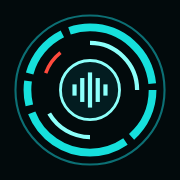
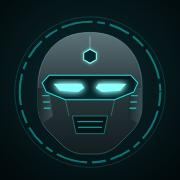
Nouveau cercle central (couronne de secteurs, cœur lumineux) et nouvelle icône casque
Claude-Session: https://claude.ai/code/session_01JMaw5Nr5KgAWoKH9Dxn7kh

diff --git a/css/jarvis.css b/css/jarvis.css
@@ -104,22 +104,25 @@ body[data-state="listening"] .marque-etat, body[data-state="speaking"] .marque-e
 .trait-fin { stroke: var(--cyan-sombre); stroke-width: 1; }
 #graduations line { stroke: var(--cyan-sombre); stroke-width: 1; }
 #graduations line.majeure { stroke: var(--cyan); stroke-width: 2; }
-.segments { stroke: var(--cyan); stroke-width: 9; stroke-dasharray: 46 6 110 6 20 6 70 6; }
-.segments-halo { stroke: rgb(22 224 220 / .22); stroke-width: 20; stroke-dasharray: 46 6 110 6 20 6 70 6; }
+.secteur { fill: rgb(22 224 220 / .07); stroke: var(--cyan); stroke-width: 1.2; transition: fill 180ms, stroke 180ms; }
+.secteur.allume { fill: rgb(22 224 220 / .38); stroke: var(--cyan-vif); filter: drop-shadow(0 0 6px var(--cyan)); }
+.secteur-txt { fill: var(--cyan-vif); font: 500 9.5px var(--titre); letter-spacing: .12em; pointer-events: none; }
 .arc { stroke: var(--cyan-vif); stroke-width: 4; }
 .arc-halo { stroke: rgb(22 224 220 / .3); stroke-width: 12; }
 .arc-fin { stroke: var(--rouge); stroke-width: 3; }
 .pointilles { stroke: var(--cyan); stroke-width: 5; stroke-dasharray: 2 7; opacity: .8; }
-.arc-moyen { stroke: var(--cyan); stroke-width: 2; }
+.cellule { fill: rgb(22 224 220 / .22) !important; stroke: var(--cyan); stroke-width: 1; }
+.cellule-vive { fill: rgb(140 255 250 / .65) !important; filter: drop-shadow(0 0 5px var(--cyan)); }
 .ailes path { stroke: var(--cyan); stroke-width: 3; stroke-dasharray: 3 5; opacity: .7; }
-.disque { fill: #031c20 !important; stroke: var(--cyan-vif); stroke-width: 2.5; }
-.disque-halo { stroke: rgb(22 224 220 / .28); stroke-width: 14; }
-.disque-interne { stroke: var(--cyan-sombre); stroke-width: 1; stroke-dasharray: 1 5; }
+.disque { fill: url(#gradCoeur) !important; stroke: var(--cyan-vif); stroke-width: 2.5; }
+.disque-halo { stroke: rgb(22 224 220 / .3); stroke-width: 10; }
+.hexa { fill: none; stroke: var(--cyan-vif); stroke-width: 2; filter: drop-shadow(0 0 6px var(--cyan)); }
+.hexa-interne { fill: none; stroke: var(--cyan-sombre); stroke-width: 1; stroke-dasharray: 2 4; }
 .onde rect { fill: var(--cyan-vif); transform-box: fill-box; transform-origin: center; transform: scaleY(.15); transition: transform 120ms linear; }
 
 .anneau { transform-origin: 200px 200px; transform-box: view-box; }
 .anneau-graduations { animation: tourne 120s linear infinite; }
-.anneau-segments { animation: tourne 38s linear infinite reverse; }
+.anneau-cellules { animation: tourne 38s linear infinite reverse; }
 .anneau-arcs { animation: tourne 18s linear infinite; }
 .anneau-pointilles { animation: tourne 60s linear infinite reverse; }
 @keyframes tourne { to { transform: rotate(360deg); } }
@@ -130,9 +133,11 @@ body[data-state="listening"] .marque-etat, body[data-state="speaking"] .marque-e
 /* États */
 body[data-state="listening"] .anneau-arcs { animation-duration: 4s; }
 body[data-state="listening"] .disque { stroke: #fff; stroke-width: 3.5; }
+body[data-state="listening"] .hexa, body[data-state="speaking"] .hexa { stroke: #fff; }
+body[data-state="listening"] .cellule, body[data-state="speaking"] .cellule { fill: rgb(140 255 250 / .5) !important; }
 body[data-state="listening"] .disque-halo { stroke: rgb(140 255 250 / .5); animation: pulse 1.2s ease-in-out infinite; }
 body[data-state="listening"] .onde rect { fill: #fff; }
-body[data-state="thinking"] .anneau-segments { animation-duration: 5s; }
+body[data-state="thinking"] .anneau-cellules { animation-duration: 5s; }
 body[data-state="thinking"] .anneau-pointilles { animation-duration: 6s; }
 body[data-state="thinking"] .disque { stroke-dasharray: 8 8; }
 body[data-state="speaking"] .disque-halo { stroke: rgb(22 224 220 / .55); stroke-width: 22; animation: pulse .9s ease-in-out infinite; }

diff --git a/js/app.js b/js/app.js
@@ -65,6 +65,51 @@
       g.appendChild(l);
     }
   })();
+  /* Couronne de secteurs étiquetés, cellules lumineuses et hexagone du cœur */
+  const pt = (r, a) => [200 + Math.cos(a) * r, 200 + Math.sin(a) * r];
+  const secteurs = [];
+  (function couronne() {
+    const g = $("#couronne"), n = 12, r1 = 155, r2 = 181, ecart = 0.035;
+    const noms = ["AGENDA", "MAILS", "POSTS", "ACTU", "BRIEFING", "VOIX", "MÉMOIRE", "RÉSEAU", "WEB", "SYSTÈME", "CERVEAU", "VEILLE"];
+    const defs = document.querySelector(".noyau svg defs");
+    for (let i = 0; i < n; i++) {
+      const a1 = -Math.PI / 2 + (i / n) * Math.PI * 2 + ecart, a2 = -Math.PI / 2 + ((i + 1) / n) * Math.PI * 2 - ecart;
+      const [x1, y1] = pt(r2, a1), [x2, y2] = pt(r2, a2), [x3, y3] = pt(r1, a2), [x4, y4] = pt(r1, a1);
+      const seg = document.createElementNS(NS, "path");
+      seg.setAttribute("d", `M${x1} ${y1} A${r2} ${r2} 0 0 1 ${x2} ${y2} L${x3} ${y3} A${r1} ${r1} 0 0 0 ${x4} ${y4} Z`);
+      seg.setAttribute("class", "secteur"); g.appendChild(seg); secteurs.push(seg);
+      // texte toujours lisible : sens horaire en haut, antihoraire en bas
+      const milieu = (a1 + a2) / 2, bas = Math.sin(milieu) > 0.05;
+      const rt = bas ? 171 : 164, id = "arcTxt" + i;
+      const [sx, sy] = pt(rt, bas ? a2 : a1), [ex, ey] = pt(rt, bas ? a1 : a2);
+      const chemin = document.createElementNS(NS, "path"); chemin.setAttribute("id", id);
+      chemin.setAttribute("d", `M${sx} ${sy} A${rt} ${rt} 0 0 ${bas ? 0 : 1} ${ex} ${ey}`); defs.appendChild(chemin);
+      const t = document.createElementNS(NS, "text"); t.setAttribute("class", "secteur-txt");
+      const tp = document.createElementNS(NS, "textPath"); tp.setAttribute("href", "#" + id); tp.setAttribute("startOffset", "50%"); tp.setAttribute("text-anchor", "middle");
+      tp.textContent = noms[i]; t.appendChild(tp); g.appendChild(t);
+    }
+    // un secteur s'allume tour à tour, comme un balayage de contrôle
+    let k = 0;
+    const vitesse = () => ({ listening: 140, thinking: 90, speaking: 220 }[document.body.dataset.state] || 650);
+    (function balayer() {
+      if (!document.hidden && !matchMedia("(prefers-reduced-motion: reduce)").matches) {
+        secteurs.forEach((s, i) => s.classList.toggle("allume", i === k % n || (document.body.dataset.state === "thinking" && i === (k + 6) % n)));
+        k++;
+      }
+      setTimeout(balayer, vitesse());
+    })();
+    const c = $("#cellules");
+    for (let i = 0; i < 16; i++) {
+      const a1 = (i / 16) * Math.PI * 2 + 0.06, a2 = ((i + 1) / 16) * Math.PI * 2 - 0.06;
+      const [x1, y1] = pt(122, a1), [x2, y2] = pt(122, a2), [x3, y3] = pt(103, a2), [x4, y4] = pt(103, a1);
+      const cel = document.createElementNS(NS, "path");
+      cel.setAttribute("d", `M${x1} ${y1} A122 122 0 0 1 ${x2} ${y2} L${x3} ${y3} A103 103 0 0 0 ${x4} ${y4} Z`);
+      cel.setAttribute("class", "cellule" + (i % 4 === 0 ? " cellule-vive" : "")); c.appendChild(cel);
+    }
+    const hexa = (r, rot) => Array.from({ length: 6 }, (_, i) => pt(r, rot + (i * Math.PI) / 3).map((v) => v.toFixed(1)).join(",")).join(" ");
+    document.querySelector(".hexa").setAttribute("points", hexa(80, 0));
+    document.querySelector(".hexa-interne").setAttribute("points", hexa(70, 0));
+  })();
   const barres = [];
   (function onde() {
     const g = $("#onde"), n = 15, w = 5, gap = 4, total = n * w + (n - 1) * gap;

diff --git a/index.html b/index.html
@@ -15,7 +15,7 @@
 <meta name="apple-mobile-web-app-capable" content="yes">
 <meta name="apple-mobile-web-app-status-bar-style" content="black-translucent">
 <link rel="preload" href="fonts/unbounded-latin-500-normal.woff2" as="font" type="font/woff2" crossorigin>
-<link rel="stylesheet" href="css/jarvis.css?v=27">
+<link rel="stylesheet" href="css/jarvis.css?v=28">
 </head>
 <body data-state="idle">
 
@@ -51,14 +51,18 @@
   <section class="coeur" aria-label="Parler à Jarvis">
     <button class="noyau" id="noyau" aria-label="Appuyer pour parler">
       <svg viewBox="0 0 400 400" aria-hidden="true">
+        <defs>
+          <radialGradient id="gradCoeur" cx="50%" cy="50%" r="50%">
+            <stop offset="0" stop-color="#8cfffa" stop-opacity=".55"/>
+            <stop offset=".5" stop-color="#16e0dc" stop-opacity=".22"/>
+            <stop offset="1" stop-color="#031c20" stop-opacity="1"/>
+          </radialGradient>
+        </defs>
         <g class="anneau anneau-graduations">
           <circle fill="none" cx="200" cy="200" r="194" class="trait-fin"/>
           <g id="graduations"></g>
         </g>
-        <g class="anneau anneau-segments">
-          <circle fill="none" cx="200" cy="200" r="166" class="segments-halo"/>
-          <circle fill="none" cx="200" cy="200" r="166" class="segments"/>
-        </g>
+        <g class="couronne" id="couronne"></g>
         <g class="anneau anneau-arcs">
           <path fill="none" d="M200 52 A148 148 0 0 1 348 200" class="arc-halo"/>
           <path fill="none" d="M200 52 A148 148 0 0 1 348 200" class="arc"/>
@@ -67,15 +71,16 @@
           <path fill="none" d="M62 146 A148 148 0 0 1 112 81" class="arc arc-fin"/>
         </g>
         <g class="anneau anneau-pointilles">
-          <circle fill="none" cx="200" cy="200" r="128" class="pointilles"/>
-          <path fill="none" d="M200 84 A116 116 0 0 1 316 200 M200 316 A116 116 0 0 1 84 200" class="arc-moyen"/>
+          <circle fill="none" cx="200" cy="200" r="132" class="pointilles"/>
         </g>
+        <g class="anneau anneau-cellules" id="cellules"></g>
         <g class="ailes">
           <path fill="none" d="M22 150 A186 186 0 0 0 22 250" /><path fill="none" d="M378 150 A186 186 0 0 1 378 250" />
         </g>
-        <circle fill="none" cx="200" cy="200" r="100" class="disque-halo"/>
-        <circle fill="none" cx="200" cy="200" r="100" class="disque"/>
-        <circle fill="none" cx="200" cy="200" r="88" class="disque-interne"/>
+        <circle cx="200" cy="200" r="96" class="disque-halo" fill="none"/>
+        <circle cx="200" cy="200" r="96" class="disque"/>
+        <polygon class="hexa" points=""/>
+        <polygon class="hexa-interne" points=""/>
         <g class="onde" id="onde"></g>
       </svg>
       <span class="noyau-texte" id="noyauTexte">Parler</span>
@@ -270,6 +275,6 @@
   </form>
 </dialog>
 
-<script src="js/app.js?v=27" defer></script>
+<script src="js/app.js?v=28" defer></script>
 </body>
 </html>

diff --git a/sw.js b/sw.js
@@ -1,6 +1,6 @@
 /* Jarvis : garde l'appli en mémoire pour qu'elle s'ouvre même sans réseau.
    Les appels au cerveau (Gemini, Groq) ne sont jamais mis en cache. */
-const VERSION = "jarvis-v27";
+const VERSION = "jarvis-v28";
 const FICHIERS = ["./", "index.html", "css/jarvis.css", "js/app.js", "manifest.webmanifest", "briefing-exemple.json",
   "icons/icon.svg", "icons/icon-192.png", "icons/icon-512.png",
   "fonts/unbounded-latin-500-normal.woff2", "fonts/unbounded-latin-700-normal.woff2",
